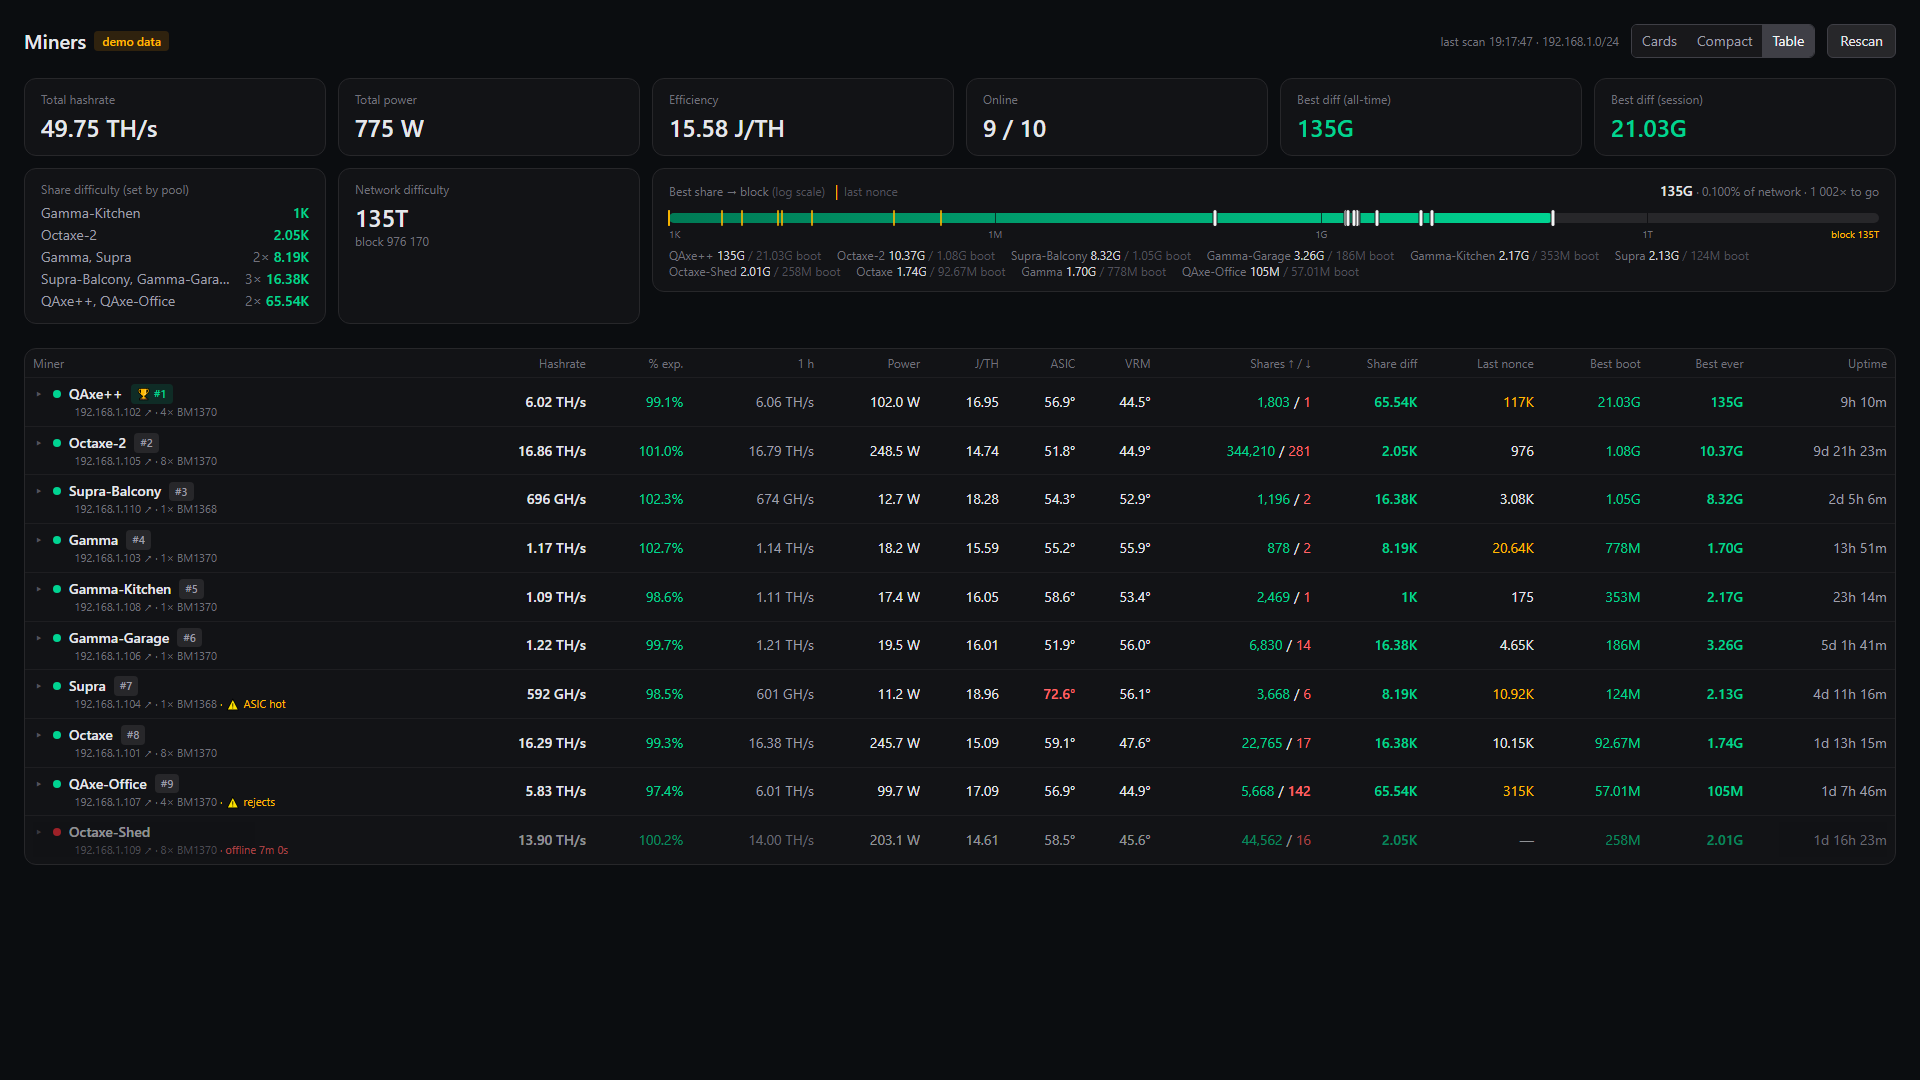
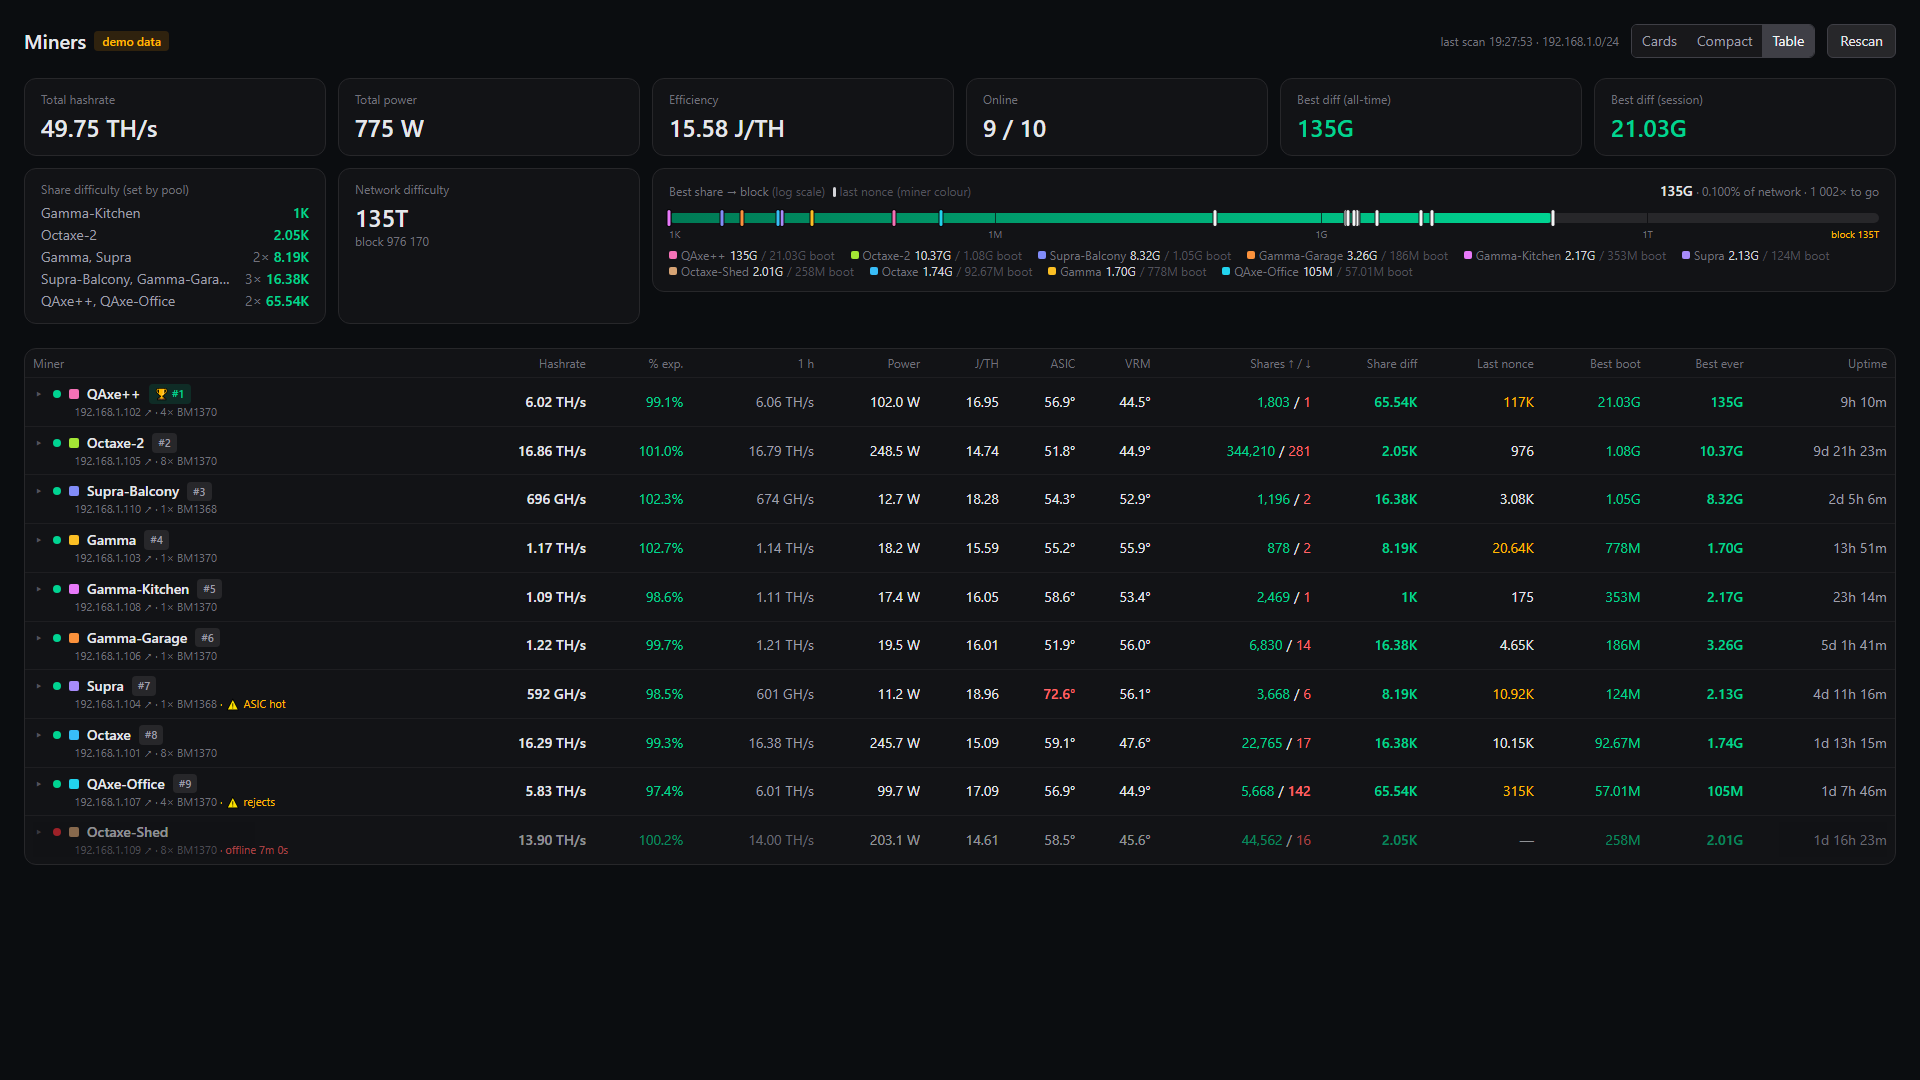
Give every miner its own colour on the best-share bar
- lib/colors.ts: a fixed colour per miner, assigned by sorted id so it does not change
  with the leaderboard; ten clearly different colours first, no red (reads as offline).
- A square in that colour next to the name on cards, compact cards, the table and the
  bar's legend; the last-nonce tick on the bar uses it (with a dark outline).
- README: screenshots and features updated.

diff --git a/components/DiffProgress.tsx b/components/DiffProgress.tsx
@@ -5,6 +5,7 @@ export interface DiffMark {
   best?: number; // all-time best share
   session?: number; // best share since boot
   last?: number; // newest nonce from the live feed
+  color?: string; // the miner's colour (lib/colors.ts)
 }
 
 const pct = (v: number) =>
@@ -14,7 +15,7 @@ const pct = (v: number) =>
  * Best shares on a log scale from the pool's share difficulty (left edge) to the network
  * difficulty (right edge, where a share would be a block). Linear progress would be an
  * invisible sliver: a 13.7G share is 0.009% of a 148T network difficulty.
- * Thin amber ticks are the newest nonce of each miner; they hop along with the live feed
+ * Thin ticks in each miner's colour are its newest nonce; they hop along with the live feed
  * (nonces below the left edge stay at the edge).
  */
 export function DiffProgress({ from, to, marks }: { from: number; to: number; marks: DiffMark[] }) {
@@ -38,7 +39,7 @@ export function DiffProgress({ from, to, marks }: { from: number; to: number; ma
           Best share → block <span className="text-zinc-600">(log scale)</span>
           {marks.some((m) => m.last) && (
             <span className="ml-2 text-zinc-600">
-              <span className="text-amber-400">│</span> last nonce
+              <span className="inline-block h-2.5 w-[3px] translate-y-px rounded-sm bg-zinc-300" /> last nonce (miner colour)
             </span>
           )}
         </div>
@@ -66,8 +67,8 @@ export function DiffProgress({ from, to, marks }: { from: number; to: number; ma
               key={`${m.name}-l`}
               title={`${m.name}: last nonce ${fmtDiff(m.last)}`}
               data-testid="live-mark"
-              className="absolute top-1/2 h-4 w-0.5 -translate-x-1/2 -translate-y-1/2 rounded-sm bg-amber-400/80 transition-[left] duration-500 ease-out"
-              style={{ left: `${pos(m.last)}%` }}
+              className="absolute top-1/2 h-4 w-[3px] -translate-x-1/2 -translate-y-1/2 rounded-sm ring-1 ring-zinc-950 transition-[left] duration-500 ease-out"
+              style={{ left: `${pos(m.last)}%`, background: m.color ?? "#fbbf24" }}
             />
           ) : null,
           m.session && !dense ? (
@@ -111,7 +112,8 @@ export function DiffProgress({ from, to, marks }: { from: number; to: number; ma
       {sorted.length > 0 && (
         <div className="mt-1 flex flex-wrap gap-x-4 text-xs text-zinc-500 tabular-nums">
           {sorted.map((m) => (
-            <span key={m.name}>
+            <span key={m.name} className="inline-flex items-center gap-1">
+              {m.color && <span className="inline-block h-2 w-2 shrink-0 rounded-[2px]" style={{ background: m.color }} />}
               {m.name} <span className="text-zinc-300">{fmtDiff(m.best)}</span>
               {m.session ? <span className="text-zinc-600"> / {fmtDiff(m.session)} boot</span> : null}
             </span>

diff --git a/app/page.tsx b/app/page.tsx
@@ -7,6 +7,7 @@ import { MinerCompact } from "@/components/MinerCompact";
 import { MinerTable } from "@/components/MinerTable";
 import { lastNonce } from "@/components/LiveDiff";
 import { createDemo, type Demo } from "@/lib/demo";
+import { minerColors } from "@/lib/colors";
 import { sortMiners } from "@/lib/health";
 import { fmt, fmtDiff, fmtDiffShort, fmtHash, jPerTh } from "@/lib/format";
 import type { MinersResponse, NonceEvent } from "@/lib/types";
@@ -129,6 +130,7 @@ export default function Home() {
   const ranks: Record<string, number> = {};
   miners.filter((m) => m.online).forEach((m, i) => (ranks[m.id] = i + 1));
   const ranksKey = JSON.stringify(ranks);
+  const colors = minerColors(miners.map((m) => m.id));
 
   useEffect(() => {
     const now: Record<string, number> = JSON.parse(ranksKey);
@@ -252,6 +254,7 @@ export default function Home() {
                 best: m.snapshot?.bestDiff,
                 session: m.snapshot?.bestSessionDiff,
                 last: m.online ? lastNonce(feeds[m.id])?.diff : undefined,
+                color: colors[m.id],
               }))}
             />
           </div>
@@ -264,13 +267,13 @@ export default function Home() {
       )}
 
       {data && view === "table" && miners.length > 0 && (
-        <MinerTable miners={miners} now={data.now} feeds={feeds} expanded={expanded} toggle={toggle} ranks={ranks} />
+        <MinerTable miners={miners} now={data.now} feeds={feeds} expanded={expanded} toggle={toggle} ranks={ranks} colors={colors} />
       )}
       {data && view !== "table" && (
         <section className={`grid gap-4 ${view === "compact" ? "items-start" : ""}`} style={view === "compact" ? grid(300, 8) : grid(440, miners.length > 3 ? 4 : 3)}>
           {miners.map((m) =>
             view === "compact" && !expanded.has(m.id) ? (
-              <MinerCompact key={m.id} m={m} now={data.now} feed={feeds[m.id]} onExpand={() => toggle(m.id)} rank={ranks[m.id]} flash={!!climbed[m.id]} />
+              <MinerCompact key={m.id} m={m} now={data.now} feed={feeds[m.id]} onExpand={() => toggle(m.id)} rank={ranks[m.id]} color={colors[m.id]} flash={!!climbed[m.id]} />
             ) : (
               <MinerCard
                 key={m.id}
@@ -279,6 +282,7 @@ export default function Home() {
                 feed={feeds[m.id]}
                 feedCollapsed={many}
                 rank={ranks[m.id]}
+                color={colors[m.id]}
                 flash={!!climbed[m.id]}
                 onCollapse={view === "compact" ? () => toggle(m.id) : undefined}
               />

diff --git a/components/MinerTable.tsx b/components/MinerTable.tsx
@@ -4,6 +4,7 @@ import { fmt, fmtDiff, fmtDiffShort, fmtDuration, fmtHash, jPerTh } from "@/lib/
 import { ASIC_TEMP_MAX, hashratePct, minerIssues, rejectPct, REJECT_PCT_MAX, VR_TEMP_MAX } from "@/lib/health";
 import { LiveDiff } from "./LiveDiff";
 import { MinerCard, pctColor } from "./MinerCard";
+import { MinerSwatch } from "./MinerSwatch";
 import { RankBadge } from "./RankBadge";
 
 const TH = "px-2 py-1.5 font-normal whitespace-nowrap";
@@ -11,8 +12,9 @@ const TD = "px-2 py-1.5 whitespace-nowrap tabular-nums";
 const hot = (v: number | undefined, max: number) => ((v ?? 0) >= max ? "font-semibold text-red-400" : "");
 
 /** One row per miner; clicking the name opens the full card under the row. */
-export function MinerTable({ miners, now, feeds, expanded, toggle, ranks }: {
+export function MinerTable({ miners, now, feeds, expanded, toggle, ranks, colors }: {
   miners: MinerView[];
+  colors: Record<string, string>;
   ranks: Record<string, number>;
   now: number;
   feeds: Record<string, NonceEvent[]>;
@@ -55,6 +57,7 @@ export function MinerTable({ miners, now, feeds, expanded, toggle, ranks }: {
                     <button onClick={() => toggle(m.id)} className="flex items-center gap-2 text-left" title="Show the full card">
                       <span className="w-3 text-zinc-600">{open ? "▾" : "▸"}</span>
                       <span className={`h-2 w-2 shrink-0 rounded-full ${m.online ? "bg-emerald-400" : "bg-red-500"}`} />
+                      <MinerSwatch color={colors[m.id]} />
                       <span className="font-medium">{m.hostname}</span>
                       <RankBadge rank={ranks[m.id]} />
                     </button>
@@ -95,7 +98,7 @@ export function MinerTable({ miners, now, feeds, expanded, toggle, ranks }: {
                   <tr>
                     <td colSpan={cols} className="p-2">
                       <div className="max-w-[720px]">
-                        <MinerCard m={m} now={now} feed={feeds[m.id]} rank={ranks[m.id]} />
+                        <MinerCard m={m} now={now} feed={feeds[m.id]} rank={ranks[m.id]} color={colors[m.id]} />
                       </div>
                     </td>
                   </tr>

diff --git a/components/MinerCompact.tsx b/components/MinerCompact.tsx
@@ -3,6 +3,7 @@ import { fmt, fmtDiff, fmtDiffShort, fmtDuration, fmtHash, jPerTh } from "@/lib/
 import { ASIC_TEMP_MAX, hashratePct, minerIssues, rejectPct, REJECT_PCT_MAX } from "@/lib/health";
 import { LiveDiff } from "./LiveDiff";
 import { pctColor } from "./MinerCard";
+import { MinerSwatch } from "./MinerSwatch";
 import { RankBadge } from "./RankBadge";
 import { Sparkline } from "./Sparkline";
 
@@ -16,8 +17,9 @@ function Mini({ label, value, cls = "text-zinc-200" }: { label: string; value: R
 }
 
 /** Small card for pages with many miners: key numbers only, "more" opens the full card. */
-export function MinerCompact({ m, now, feed, onExpand, rank, flash }: {
+export function MinerCompact({ m, now, feed, onExpand, rank, flash, color }: {
   m: MinerView;
+  color?: string;
   now: number;
   feed?: NonceEvent[];
   onExpand: () => void;
@@ -37,6 +39,7 @@ export function MinerCompact({ m, now, feed, onExpand, rank, flash }: {
         <div className="min-w-0">
           <div className="flex items-center gap-2">
             <span className={`h-2 w-2 shrink-0 rounded-full ${m.online ? "bg-emerald-400" : "bg-red-500"}`} />
+            <MinerSwatch color={color} />
             <h2 className="truncate font-semibold">{m.hostname}</h2>
             <RankBadge rank={rank} />
           </div>

diff --git a/components/MinerCard.tsx b/components/MinerCard.tsx
@@ -7,6 +7,7 @@ import { ASIC_TEMP_MAX, isHighCurrent, minerIssues, rejectPct, REJECT_PCT_MAX, V
 import { poolStatsUrl } from "@/lib/pools";
 import { LiveDiff } from "./LiveDiff";
 import { NonceFeed } from "./NonceFeed";
+import { MinerSwatch } from "./MinerSwatch";
 import { RankBadge } from "./RankBadge";
 import { Sparkline } from "./Sparkline";
 
@@ -85,8 +86,9 @@ function ChipTable({ chips }: { chips: ChipStat[] }) {
   );
 }
 
-export function MinerCard({ m, now, feed, feedCollapsed = false, onCollapse, rank, flash }: {
+export function MinerCard({ m, now, feed, feedCollapsed = false, onCollapse, rank, flash, color }: {
   m: MinerView;
+  color?: string; // lib/colors.ts
   rank?: number; // leaderboard place, online miners only
   flash?: boolean; // just climbed the leaderboard
   now: number;
@@ -105,6 +107,7 @@ export function MinerCard({ m, now, feed, feedCollapsed = false, onCollapse, ran
         <div className="min-w-0">
           <div className="flex items-center gap-2">
             <span className={`h-2.5 w-2.5 shrink-0 rounded-full ${m.online ? "bg-emerald-400" : "bg-red-500"}`} />
+            <MinerSwatch color={color} />
             <h2 className="truncate text-lg font-semibold">{m.hostname}</h2>
             <RankBadge rank={rank} />
           </div>

diff --git a/lib/colors.ts b/lib/colors.ts
@@ -1,0 +1,30 @@
+// A fixed colour per miner: its square next to the name and its "last nonce" tick on the
+// best-share bar. Assigned by sorted id, so colours do not jump when the leaderboard changes.
+// No greens in the list: the bar's fill is emerald.
+
+const PALETTE = [
+  // The first ten are as far apart as possible; similar shades only come after them.
+  "#38bdf8", // sky
+  "#f472b6", // pink
+  "#fbbf24", // amber
+  "#a78bfa", // violet
+  "#a3e635", // lime
+  "#fb923c", // orange
+  "#22d3ee", // cyan
+  "#e879f9", // fuchsia
+  "#d6a374", // tan
+  "#818cf8", // indigo
+  "#2dd4bf", // teal
+  "#fde047", // yellow
+  "#94a3b8", // slate
+  // no red: it reads as offline / error
+];
+
+export function minerColors(ids: string[]): Record<string, string> {
+  const out: Record<string, string> = {};
+  [...ids].sort().forEach((id, i) => {
+    // More miners than colours: spread the rest around the hue circle (golden angle).
+    out[id] = PALETTE[i] ?? `hsl(${Math.round((i * 137.5) % 360)} 80% 65%)`;
+  });
+  return out;
+}

diff --git a/components/MinerSwatch.tsx b/components/MinerSwatch.tsx
@@ -1,0 +1,12 @@
+/** The miner's colour (lib/colors.ts): the same colour marks its last nonce on the best-share bar. */
+export function MinerSwatch({ color }: { color?: string }) {
+  if (!color) return null;
+  return (
+    <span
+      className="inline-block h-2.5 w-2.5 shrink-0 rounded-[2px]"
+      style={{ background: color }}
+      title="This miner's colour on the best-share bar"
+      data-testid="miner-swatch"
+    />
+  );
+}

diff --git a/README.md b/README.md
@@ -52,8 +52,9 @@ and a Bitaxe Gamma 601 on AxeOS v2.15.
   difficulty share one line), the network difficulty
   with the current block height, and a log-scale bar from share to block difficulty
   marking every miner's best share (all-time and since boot; with more than 6 miners only
-  the all-time best, as thin ticks). Thin amber ticks show each miner's newest nonce and
-  hop along the bar as new nonces come in.
+  the all-time best, as thin ticks). Each miner has its own colour (a square next to its
+  name on the cards, in the table and in the bar's legend); a thin tick in that colour shows
+  the miner's newest nonce and hops along the bar as new nonces come in.
 - A card per miner:
   - online/offline status (offline after 30 s without a response)
   - current and 1 h hashrate vs expected (`frequency × smallCoreCount × asicCount / 1000`)
